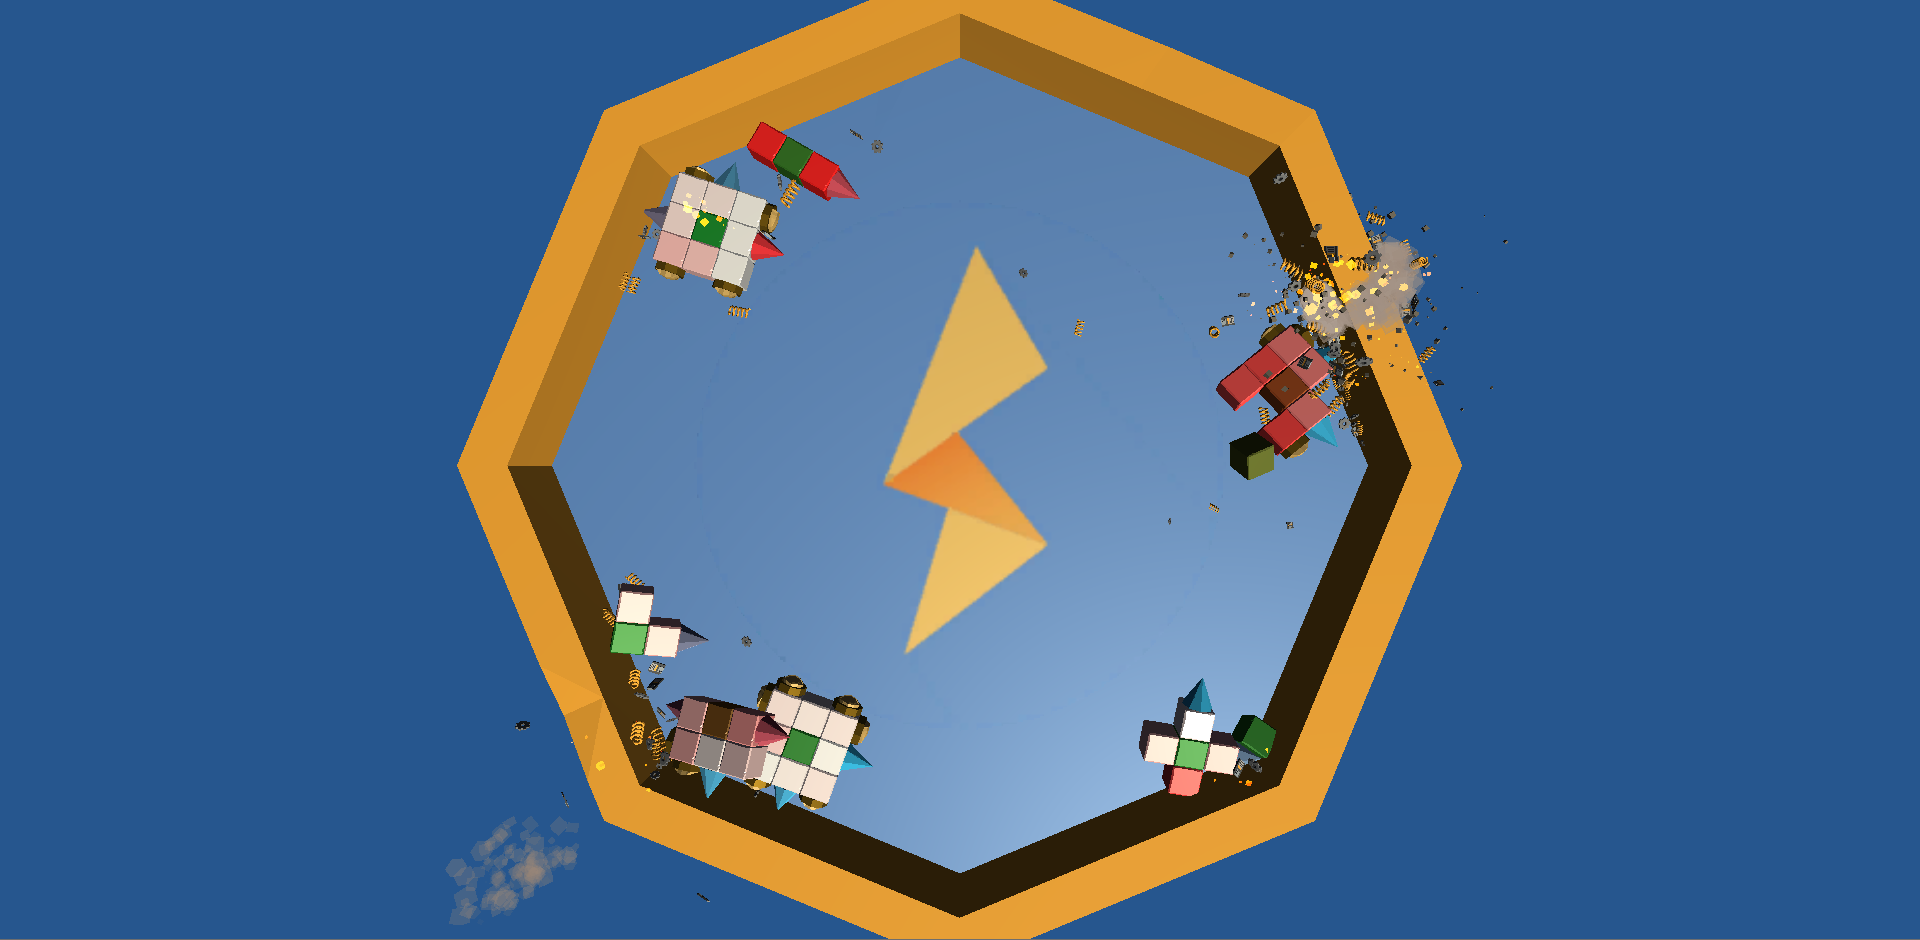
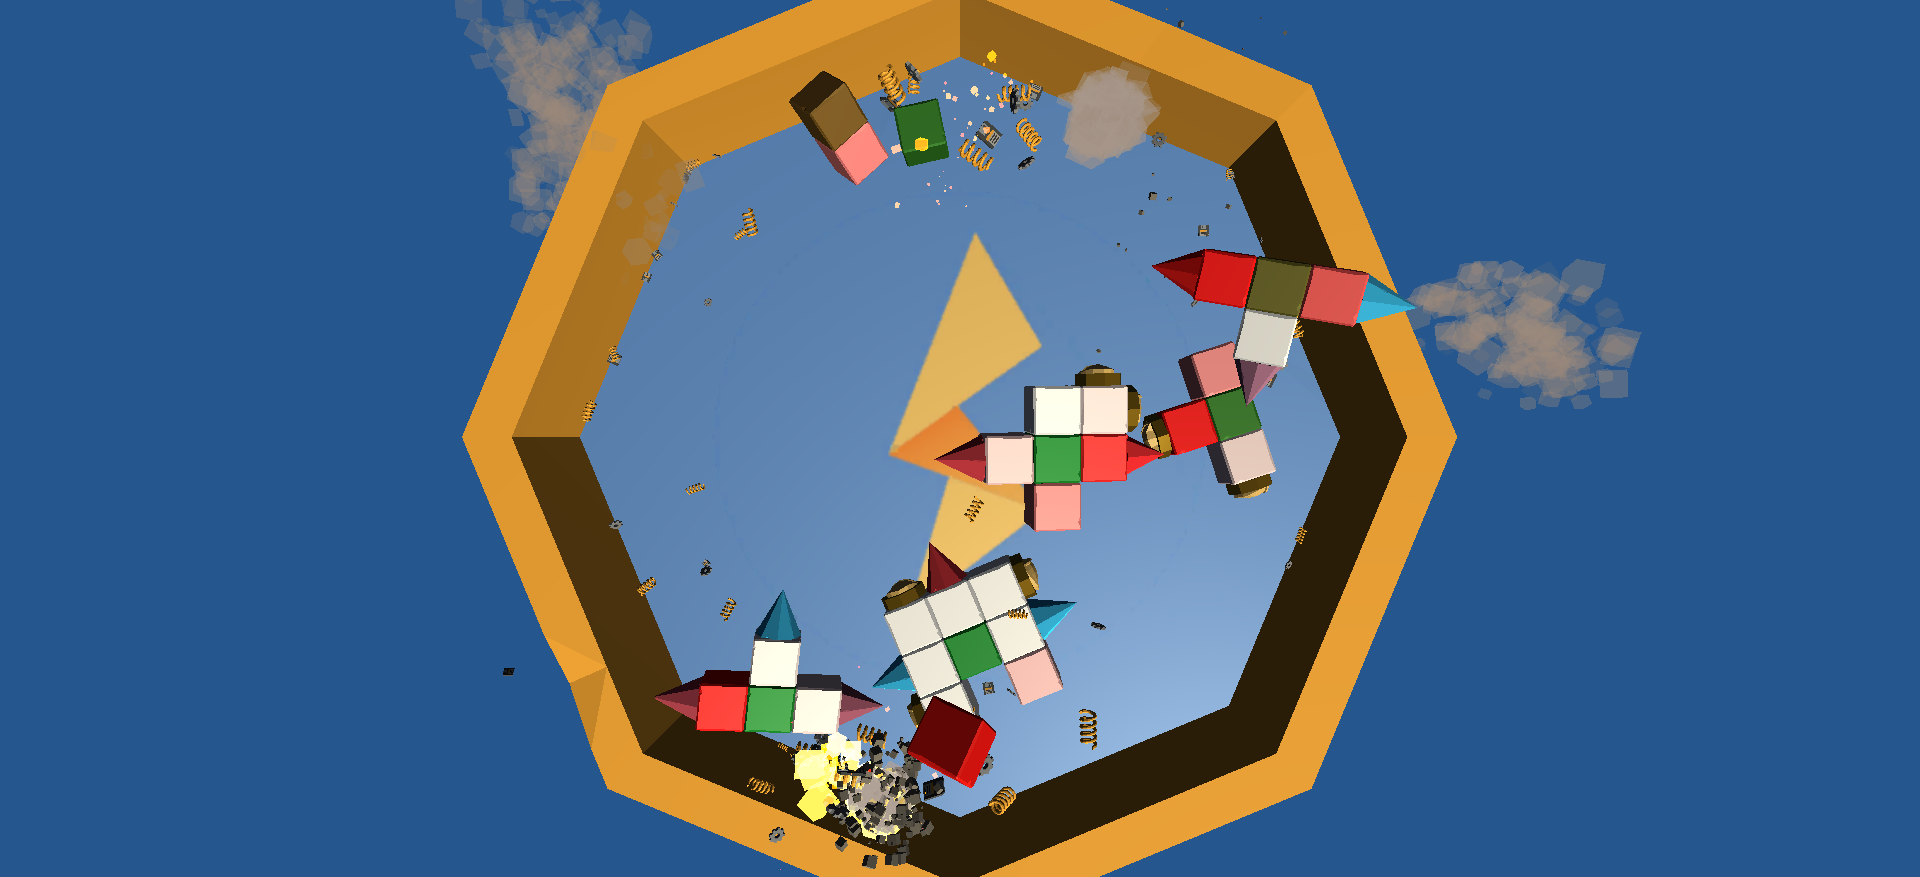
Lower background opacity.

Changed region(s): [[0.2188, 0.0, 0.875, 1.0], [0.5312, 0.3387, 0.5625, 0.4002], [0.5, 0.2771, 0.5312, 0.3387]]

diff --git a/node-webservice/react-client/src/App.css b/node-webservice/react-client/src/App.css
@@ -14,6 +14,10 @@
   left: -9999px;
 }
 
+.home-page{
+  background-color: red;
+}
+
 input[type=radio]:checked + label>img {
   border: 1px solid #fff;
   box-shadow: 0 0 5px 5px rgb(252, 186, 3);
@@ -43,6 +47,20 @@ input[type=radio]:checked + label>img {
     display: flex;
     justify-content: center;
     align-items: center;
+  }
+
+  .App-body:before {
+    content:"";
+    position:absolute;
+    width:100vw;
+    height:90vh;
+    z-index:-1;
+    opacity:0.6;
+    background-color: rgba(38,87,142,188);
+    background-image: url("GameBackground.PNG");
+    object-fit: cover;
+    background-repeat: no-repeat;
+    background-position: center;
   }
   
   
@@ -155,6 +173,20 @@ input[type=radio]:checked + label>img {
     display: flex;
     justify-content: center;
     align-items: center;
+  }
+
+  .App-body:before {
+    content:"";
+    position:absolute;
+    width:100vw;
+    height:85vh;
+    z-index:-1;
+    opacity:0.6;
+    background-color: rgba(38,87,142,188);
+    background-image: url("GameBackground.PNG");
+    object-fit: cover;
+    background-repeat: no-repeat;
+    background-position: center;
   }
   
   .build_surrounding_square {

diff --git a/node-webservice/react-client/src/App.jsx b/node-webservice/react-client/src/App.jsx
@@ -17,13 +17,6 @@ import {
 } from "react-router-dom";
 import { socket } from './API/socketHandler.js';
 
-const backgroundStyle = {
-  backgroundImage:`url(${background})`,
-  flex: 1,
-  resizeMode: 'cover', 
-  backgroundPosition:"center",
-}
-
 class App extends Component {
   constructor(props) {
     super(props);
@@ -75,7 +68,7 @@ class App extends Component {
             <img src= {RobotLogo} alt="app logo" className="logo" style={{transform:"scaleX(-1)"}}/>
           </header>
         </a>
-        <div className="App-body" style={backgroundStyle}>
+        <div className="App-body">
           { this.renderAppBodyContent() }
         </div>
       </div>
